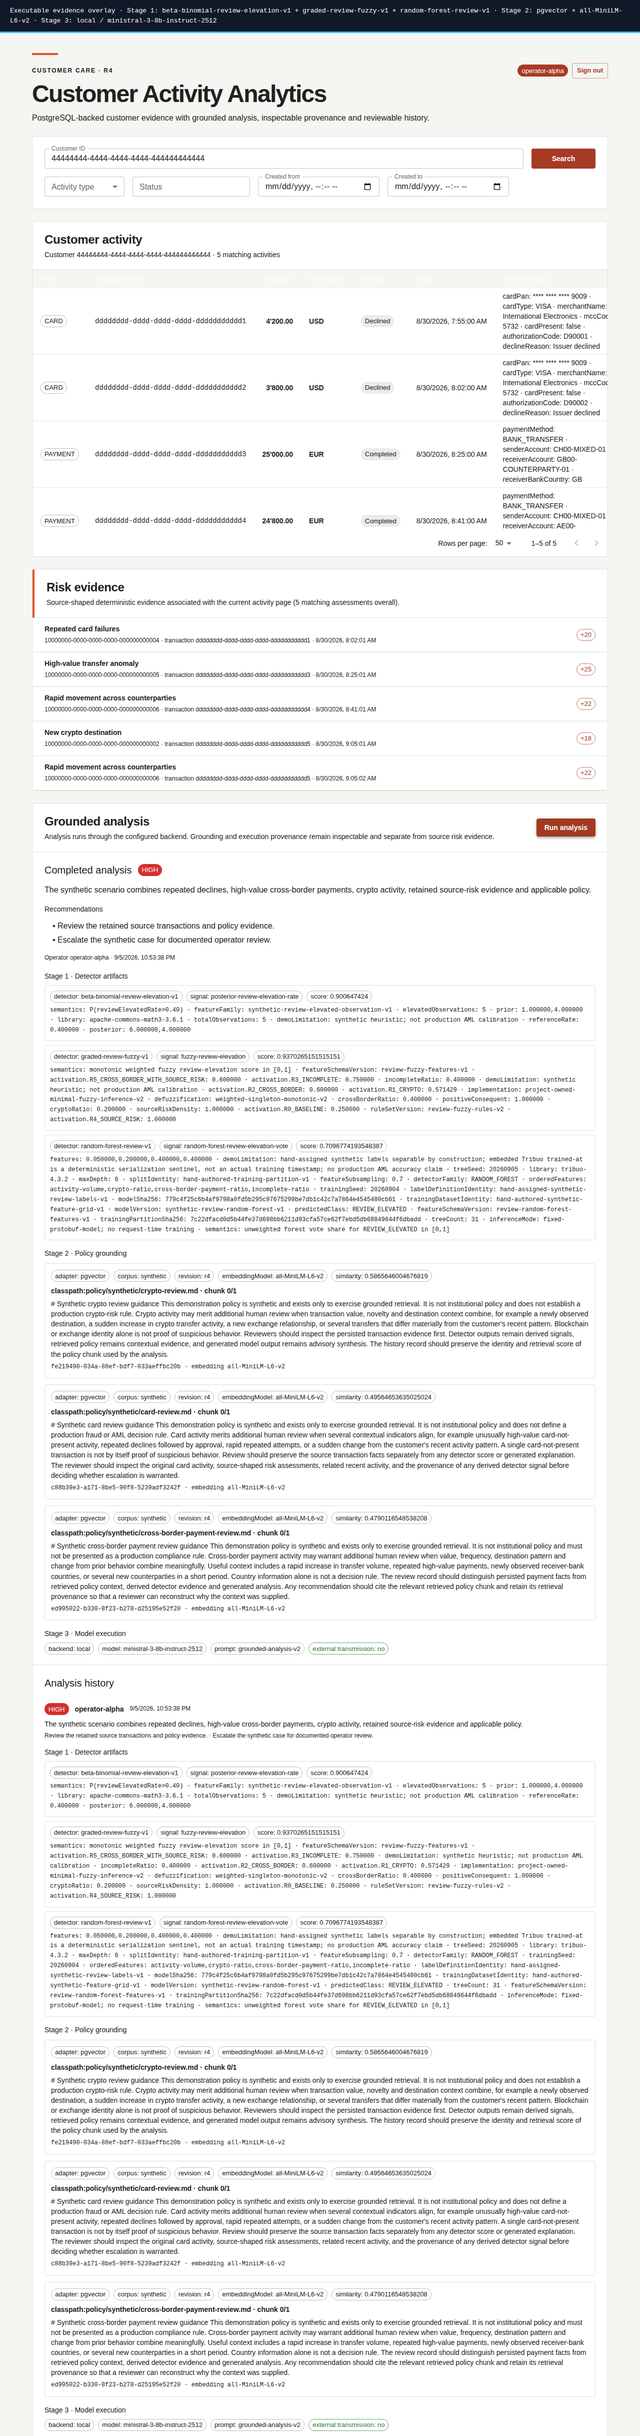
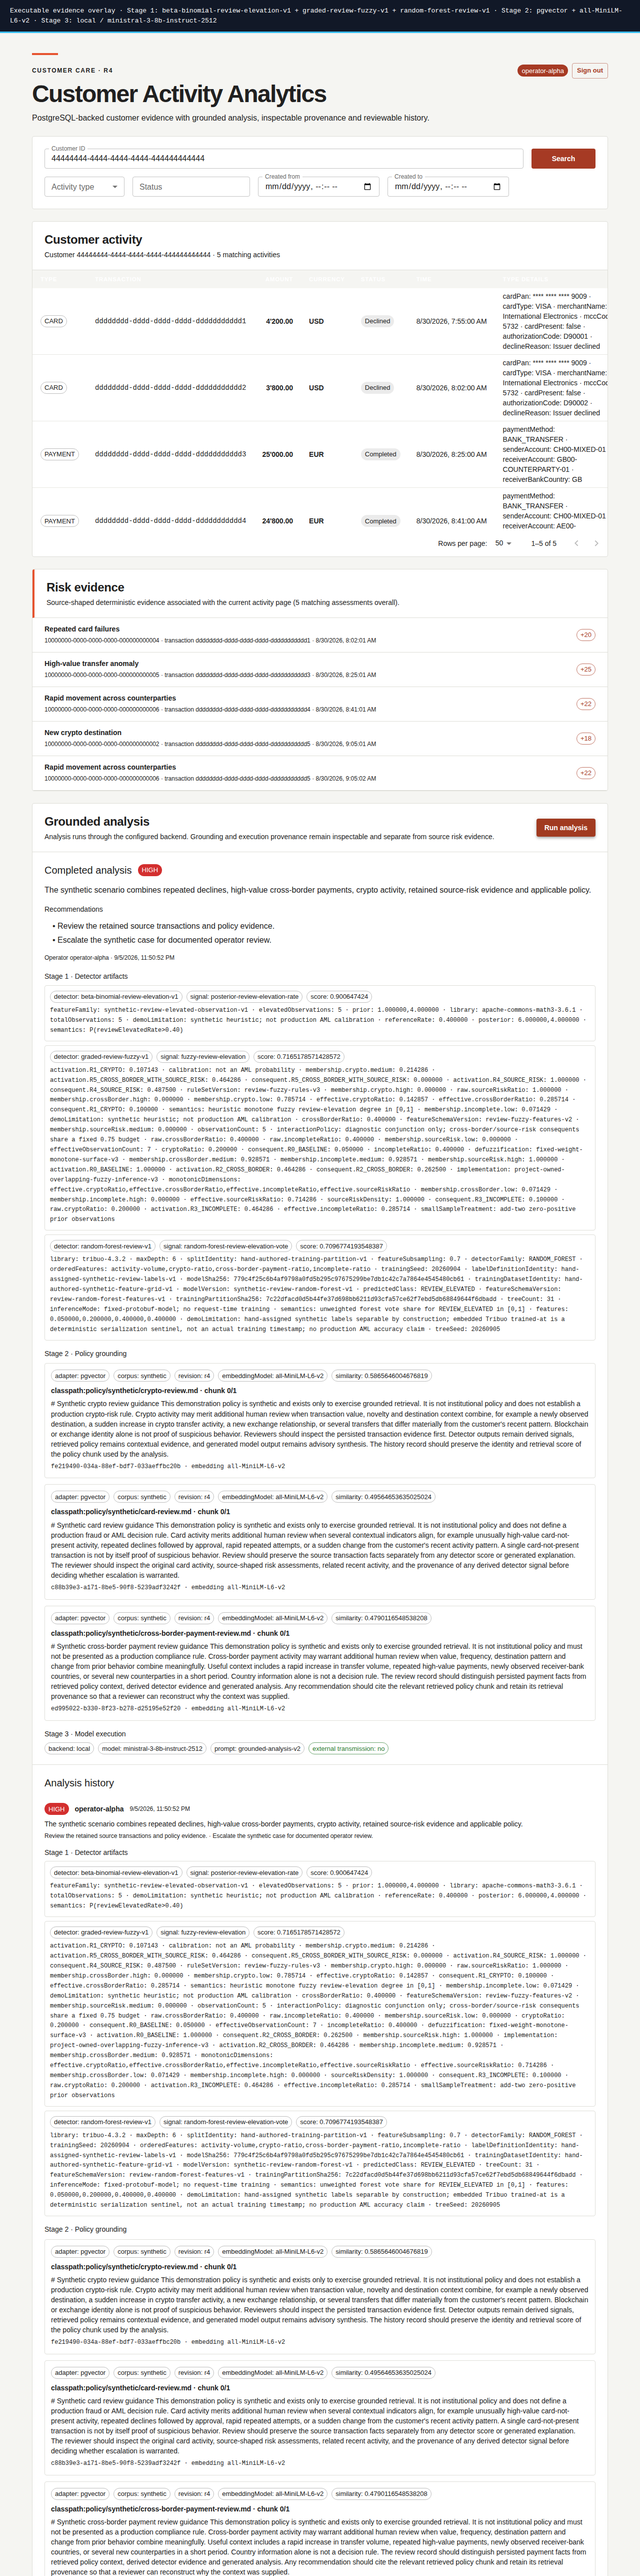
docs(r5): promote graded fuzzy browser evidence

diff --git a/docs/reviewer/screenshot-manifest.md b/docs/reviewer/screenshot-manifest.md
@@ -47,15 +47,15 @@ The baseline has no Stage-1 detector evidence; the Bayesian capture retains `bet
 
 The workflow endpoint is a deterministic LM Studio contract double. The separate WatchInfra rehearsal supplies the actual LM Studio hardware/log proof. After the first successful R5 run, the workflow PNG is promoted unchanged into `docs/reviewer/screenshots/R5_lmstudio_ensemble_customer_444.png`, and its run, source SHA, artifact digest and PNG digest are recorded here before the README embeds it.
 
-`r5-release` run `33996391133` completed successfully from exact executable source SHA `68d1d84bd728065df361d81c9f044def6429162c`:
+`r5-release` run `33999384969` attempt `1` completed successfully from exact executable source SHA `95291221c48e15010cbcf600bfa84ee087d54f6d`:
 
-- artifact id: `9978404482`;
-- artifact name: `r5-lmstudio-ensemble-68d1d84bd728065df361d81c9f044def6429162c-run-33996391133-attempt-1`;
-- artifact digest: `sha256:ff18c1009f81a7e0e719a1373a8611d6bf08535c2027ba22af8c8db925345e3e`;
+- artifact id: `9979122183`;
+- artifact name: `r5-lmstudio-ensemble-95291221c48e15010cbcf600bfa84ee087d54f6d-run-33999384969-attempt-1`;
+- artifact digest: `sha256:5c934dfc3d43a03be20abfe60c0a0b877a7b25e9d031476fed2141e0e676a5e1`;
 - promoted PNG: `docs/reviewer/screenshots/R5_lmstudio_ensemble_customer_444.png`;
[1 lines of base64/hex data omitted]
-- immutable application image: `ghcr.io/jdoe-dev-159753/specgraph-reference-app:r5-68d1d84bd728065df361d81c9f044def6429162c`, digest `sha256:feb02155fa2391aa9d02130f5539cd563fe208298d6c1ede87d9157fca23d1a7`;
-- immutable Compose candidate: `oci://ghcr.io/jdoe-dev-159753/specgraph-reference-app-compose:r5-68d1d84bd728065df361d81c9f044def6429162c`, digest `sha256:6d973aee76648357ce3892192860c4b28a426a650ec0b1e7e8d7007efae7cb81`.
[1 lines of base64/hex data omitted]
+- immutable application image: `ghcr.io/jdoe-dev-159753/specgraph-reference-app:r5-95291221c48e15010cbcf600bfa84ee087d54f6d`, digest `sha256:5162cd959ec723f3e6c7502d9c17e5c5cdbac0c964c73dc7f7e767ccf99d463a`;
+- immutable Compose candidate: `oci://ghcr.io/jdoe-dev-159753/specgraph-reference-app-compose:r5-95291221c48e15010cbcf600bfa84ee087d54f6d`, digest `sha256:91a378060334c679142180e4131cafe9825cac4b90bf3abdc63dd0976e57c687`.
 
 The later README/manifest commit only promotes this frozen evidence and records its provenance; it does not claim that the executable artifact was produced from that documentation-only head.
 

diff --git a/README.md b/README.md
@@ -48,10 +48,10 @@ export SPECGRAPH_LOCAL_MODEL=ministral-3-8b-instruct-2512
 export R5_BIND_ADDRESS=10.77.0.31
 export R5_PORT=8088
 docker compose -p specgraph-r5 \
-  -f oci://ghcr.io/jdoe-dev-159753/specgraph-reference-app-compose:r5-68d1d84bd728065df361d81c9f044def6429162c \
+  -f oci://ghcr.io/jdoe-dev-159753/specgraph-reference-app-compose:r5-95291221c48e15010cbcf600bfa84ee087d54f6d \
   up -d --wait --no-build --pull always
 docker compose -p specgraph-r5 \
-  -f oci://ghcr.io/jdoe-dev-159753/specgraph-reference-app-compose:r5-68d1d84bd728065df361d81c9f044def6429162c ps
+  -f oci://ghcr.io/jdoe-dev-159753/specgraph-reference-app-compose:r5-95291221c48e15010cbcf600bfa84ee087d54f6d ps
 ```
 
 This immutable candidate was proven and published by the successful R5 workflow. The shorter `:r5` tag is promoted only after merge to `main`.
@@ -71,7 +71,7 @@ Stop and reset the R5 demo with the same OCI Compose package:
 
 ```bash
 docker compose -p specgraph-r5 \
-  -f oci://ghcr.io/jdoe-dev-159753/specgraph-reference-app-compose:r5-68d1d84bd728065df361d81c9f044def6429162c \
+  -f oci://ghcr.io/jdoe-dev-159753/specgraph-reference-app-compose:r5-95291221c48e15010cbcf600bfa84ee087d54f6d \
   down -v
 ```
 
